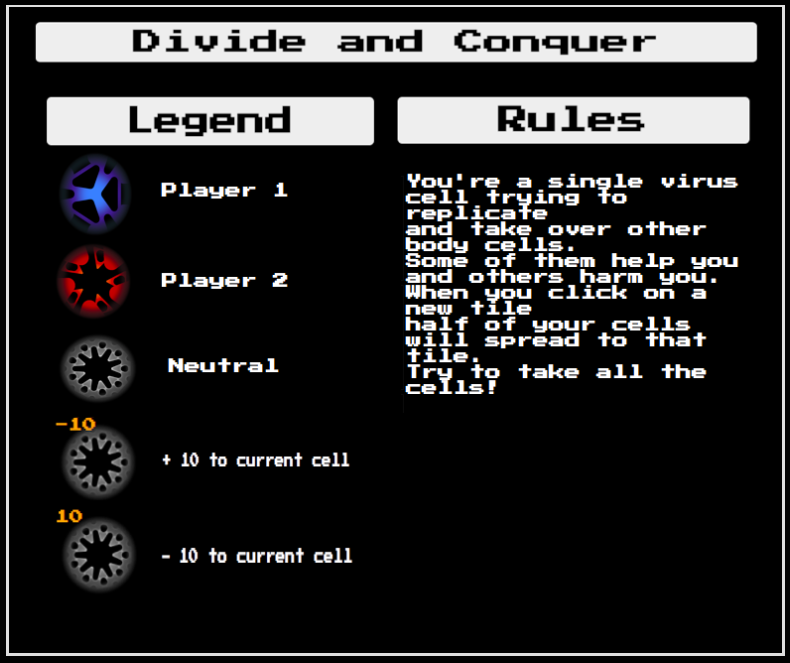
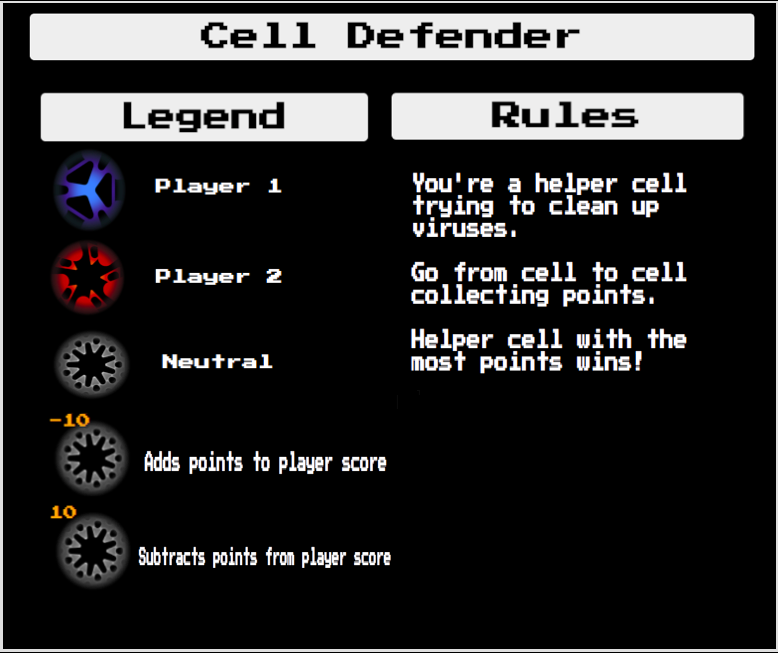
new images

diff --git a/index.html b/index.html
@@ -10,7 +10,7 @@
 
     <body>
 
-    <h1>Cell Defender</h1>
+    <h1><img src="title.png" alt=""></h1>
 
     <table>
       <div class="scoreBox">

diff --git a/styles.css b/styles.css
@@ -1,5 +1,5 @@
 h1 {
-  width: 770px;
+  width: 808px;
   margin: 0 auto;
   margin-bottom: 20px;
 	border-radius: 5px;
